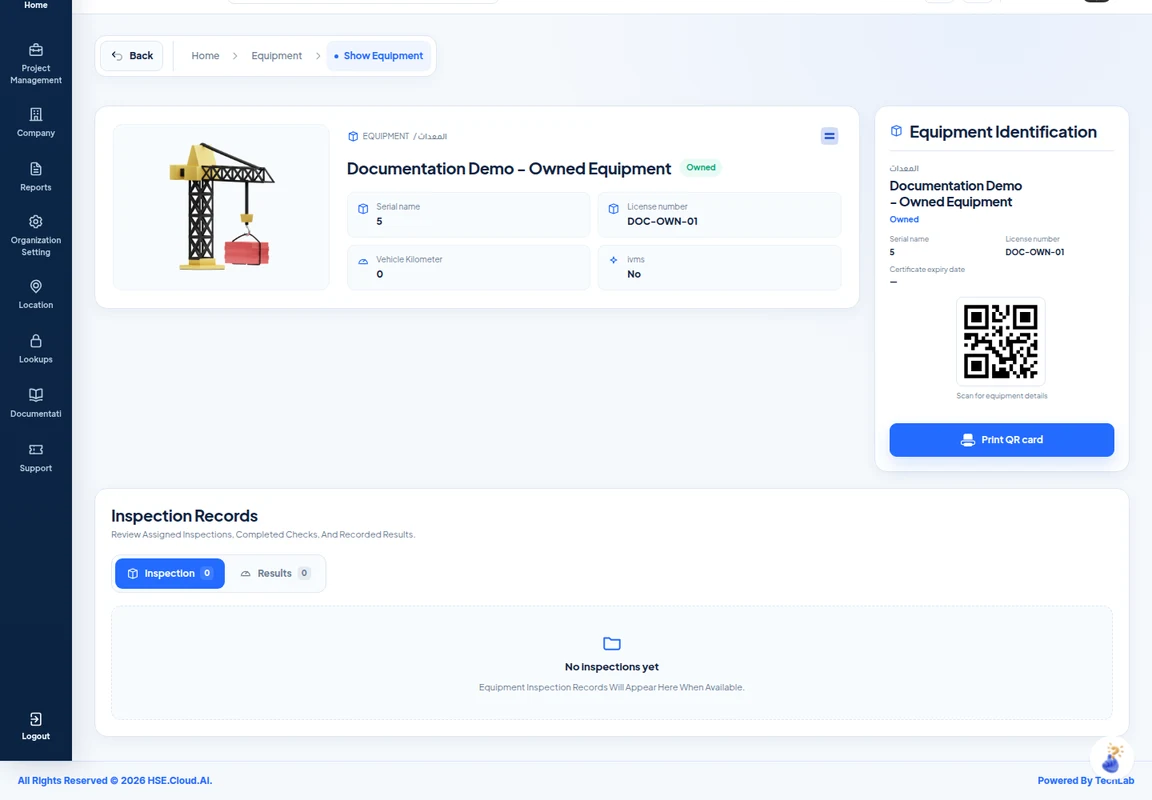
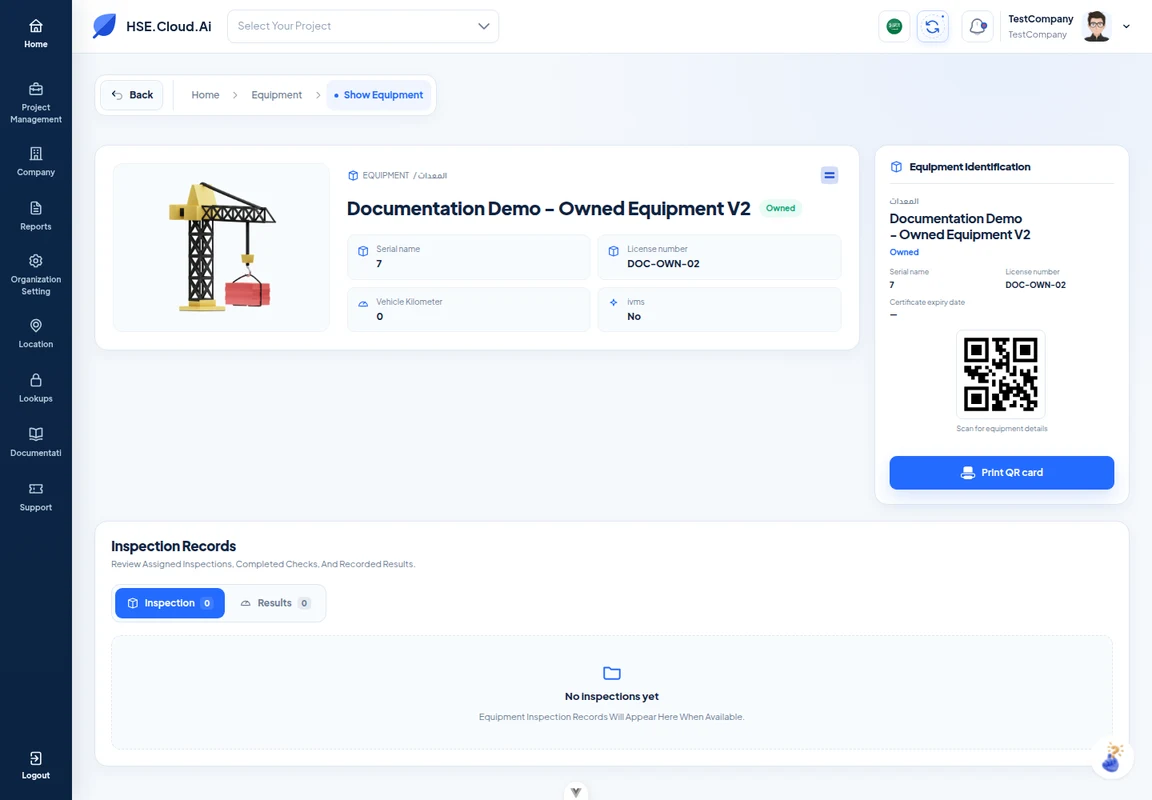
update select

diff --git a/src/features/Documentation/content/incident.ts b/src/features/Documentation/content/incident.ts
@@ -10,8 +10,8 @@ export const incidentGuide: FeatureGuide = {
     'أنشئ تقرير حادث ووثّق بيانات الأشخاص والامتثال ثم راجع السجل المحفوظ.',
   ),
   introduction: text(
-    'Incident reporting captures an event in a specific project and zone, including its type, context, immediate response, and any affected people. The walkthrough records a labelled documentation scenario with no injuries or fatalities. Select additional sections only when they apply to the incident being reported.',
-    'يوثق تقرير الحادث واقعة في مشروع ومنطقة محددين بما يشمل النوع والسياق والاستجابة الفورية والأشخاص المتأثرين. يسجل الشرح سيناريو توضيحياً مسمى دون إصابات أو وفيات. فعّل الأقسام الإضافية فقط عند انطباقها على الحادث المبلغ عنه.',
+    'Incident reporting captures an event in a specific project and zone, including its type, context, immediate response, and any affected people. The walkthrough opens witnesses, injuries, and fatalities in a clearly labelled documentation scenario. It uses demo profiles for the witness, injured person, and fatality; the fatality profile was created specifically for this recording. In real reports, include only sections that apply to the event.',
+    'يوثق تقرير الحادث واقعة في مشروع ومنطقة محددين بما يشمل النوع والسياق والاستجابة الفورية والأشخاص المتأثرين. يفتح الشرح أقسام الشهود والإصابات والوفيات في سيناريو توضيحي مسمى بوضوح، ويستخدم ملفات تجريبية للشاهد والمصاب والمتوفى؛ تم إنشاء ملف المتوفى خصيصاً لهذا التسجيل. في التقارير الفعلية فعّل الأقسام المنطبقة على الواقعة فقط.',
   ),
   startRoute: '/organization/equipment-mangement/incedant?isAll=1',
   actionLabel: text('Open Incidents', 'افتح الحوادث'),
@@ -20,8 +20,8 @@ export const incidentGuide: FeatureGuide = {
       id: 'incident',
       title: text('Create an incident', 'إضافة حادث'),
       description: text(
-        'Select the project and zone, complete the incident details and immediate response, review the people sections, submit, and open the saved report.',
-        'اختر المشروع والمنطقة وأكمل بيانات الحادث والاستجابة الفورية وراجع أقسام الأشخاص ثم أرسل وافتح التقرير المحفوظ.',
+        'Choose the project and zone, record the incident and immediate response, then add a witness statement, an injury with body location, and a staff fatality. Submit and review all three sections in the saved report.',
+        'اختر المشروع والمنطقة وسجّل الحادث والاستجابة الفورية، ثم أضف شهادة شاهد وإصابة مع موضعها ووفاة لموظف. أرسل التقرير وراجع الأقسام الثلاثة بعد الحفظ.',
       ),
       gif: '/documentation/incident/incident.gif',
       poster: '/documentation/incident/incident-poster.webp',
@@ -109,18 +109,22 @@ export const incidentGuide: FeatureGuide = {
           'للشهود اختر نعم عند وجود من أدلى بشهادة. أضف كل شاهد باختيار موظف أو باستخدام إدخال الاسم اليدوي المتاح ثم سجّل أقواله.',
         ),
         text(
-          'For injuries, choose Yes only when an injury occurred. Complete each person and the applicable injury details, categories, supporting images, locations, and PPE information.',
-          'للإصابات اختر نعم فقط عند حدوث إصابة، وأكمل بيانات كل شخص والتفاصيل والفئات والصور والمواضع ومعلومات معدات الحماية المنطبقة.',
+          'For injuries, choose Yes only when an injury occurred. Choose Staff Injured to select an employee, or Not Staff Injured to enter a name. Select Type and Nature of Injury, select affected body regions using the front/back body map or its region list, describe the injury, and complete PPE and evidence fields when applicable.',
+          'للإصابات اختر نعم فقط عند حدوث إصابة، اختر مصاب من الموظفين لاختيار موظف أو مصاب من خارج الموظفين لإدخال الاسم. حدد نوع وطبيعة الإصابة ومواضعها من خريطة الجسم الأمامية أو الخلفية أو قائمة المناطق، ثم صف الإصابة وأكمل معلومات معدات الحماية والأدلة المنطبقة.',
         ),
         text(
-          'For fatalities, choose Yes only when applicable and enter the affected person and available details. Keep No for sections that do not apply, as shown in this demonstration.',
-          'للوفيات اختر نعم فقط عند انطباقها وأدخل الشخص والتفاصيل المتاحة. اترك لا للأقسام غير المنطبقة كما في هذا المثال.',
+          'For fatalities, choose Yes only when applicable. Choose Staff Deceased and select the employee, or Not Staff Deceased and enter an external person’s name. Describe the circumstances and attach authorized evidence if needed. The recording selects a dedicated demo employee, not a real employee.',
+          'للوفيات اختر نعم فقط عند انطباقها. اختر متوفى من الموظفين وحدد الموظف أو متوفى من خارج الموظفين وأدخل اسم الشخص الخارجي. صف الظروف وأرفق الأدلة المصرح بها عند الحاجة. يختار التسجيل موظفاً تجريبياً مخصصاً وليس موظفاً حقيقياً.',
         ),
         text(
           'Remove unused rows. An added witness, injury, or fatality row needs an identified person before submission.',
           'احذف الصفوف غير المستخدمة. يحتاج كل صف شاهد أو إصابة أو وفاة مضاف إلى تحديد الشخص قبل الإرسال.',
         ),
       ],
+      note: text(
+        'Saving a fatality for a selected staff member hides that employee from active employee selectors. Their administrative employee profile and the saved incident history are retained. Verify the person before submitting. A manually entered non-staff name is not an existing employee account.',
+        'عند حفظ وفاة لموظف محدد يُخفى من قوائم اختيار الموظفين النشطين، مع الاحتفاظ بملفه الإداري وسجله داخل الحادث. تحقق من الشخص قبل الإرسال. الاسم المدخل يدوياً لشخص من خارج الموظفين ليس حساب موظف موجوداً.',
+      ),
     },
     {
       id: 'incident-save',
@@ -169,6 +173,16 @@ export const incidentGuide: FeatureGuide = {
     },
   ],
   questions: [
+    {
+      question: text(
+        'What happens to an employee added under fatalities?',
+        'ماذا يحدث للموظف الذي تتم إضافته ضمن الوفيات؟',
+      ),
+      answer: text(
+        'When the incident is saved with a staff fatality, that employee is hidden from active employee selectors. The administrative employee list can still display the profile, and the incident retains their details as history. Check the selected person carefully before submission.',
+        'عند حفظ الحادث مع وفاة لموظف يُخفى من قوائم اختيار الموظفين النشطين. قد تستمر قائمة الموظفين الإدارية في عرض ملفه وتبقى تفاصيله داخل سجل الحادث. راجع الشخص المحدد بعناية قبل الإرسال.',
+      ),
+    },
     {
       question: text('Why is the incident date rejected?', 'لماذا يُرفض تاريخ الحادث؟'),
       answer: text(

diff --git a/src/shared/FormInputs/UpdatedCustomInputSelect.vue b/src/shared/FormInputs/UpdatedCustomInputSelect.vue
@@ -138,11 +138,9 @@ const mergedOptions = computed<TitleInterface[]>(() => {
         ? props.options
         : dynamicOptions.value
 
-  const selectedOptions = Array.isArray(props.modelValue)
-    ? props.modelValue
-    : props.modelValue
-      ? [props.modelValue]
-      : []
+  const selectedOptions = (
+    Array.isArray(props.modelValue) ? props.modelValue : props.modelValue ? [props.modelValue] : []
+  ).filter(hasOptionLabel)
 
   const optionKeys = new Set<string>()
   const selectedOptionKeys = new Set(selectedOptions.map(getOptionKey).filter(Boolean))
@@ -152,19 +150,21 @@ const mergedOptions = computed<TitleInterface[]>(() => {
    * A filtered endpoint may intentionally omit already-assigned records.
    * Keep the current value in the options so PrimeVue can still render its label.
    */
-  return [...props.prependOptions, ...availableOptions, ...selectedOptions].filter((option) => {
-    const key = getOptionKey(option)
+  return [...props.prependOptions, ...availableOptions, ...selectedOptions]
+    .filter(hasOptionLabel)
+    .filter((option) => {
+      const key = getOptionKey(option)
 
-    if (!key) return true
+      if (!key) return true
 
-    if (excludedOptionKeys.has(key) && !selectedOptionKeys.has(key)) return false
+      if (excludedOptionKeys.has(key) && !selectedOptionKeys.has(key)) return false
 
-    if (optionKeys.has(key)) return false
+      if (optionKeys.has(key)) return false
 
-    optionKeys.add(key)
+      optionKeys.add(key)
 
-    return true
-  })
+      return true
+    })
 })
 
 /*
@@ -337,6 +337,10 @@ function ensureSingle(value: unknown): TitleInterface | null {
   return null
 }
 
+function hasOptionLabel(option: TitleInterface | null | undefined): option is TitleInterface {
+  return getSelectOptionLabel(option).trim().length > 0
+}
+
 function getOptionKey(option: TitleInterface): string {
   const item = option as TitleInterface & {
     id?: string | number
@@ -453,11 +457,12 @@ function updateControllerState(): void {
 }
 
 function handleAutoFill(options: TitleInterface[]): void {
-  if (!props.autoFill || options.length !== 1) {
+  const selectableOptions = options.filter(hasOptionLabel)
+  if (!props.autoFill || selectableOptions.length !== 1) {
     return
   }
 
-  const option = options[0]
+  const option = selectableOptions[0]
 
   if (!option) {
     return

diff --git a/scripts/fixtures/select-options.html b/scripts/fixtures/select-options.html
@@ -1,0 +1,56 @@
+<!doctype html>
+<html lang="en">
+  <head>
+    <meta charset="utf-8" />
+  </head>
+  <body>
+    <div id="app" style="width: 320px; margin: 32px"></div>
+    <script type="module">
+      import { createApp, h, reactive } from 'vue'
+      import { createPinia } from 'pinia'
+      import { createI18n } from 'vue-i18n'
+      import PrimeVue from 'primevue/config'
+      import UpdatedCustomInputSelect from '/src/shared/FormInputs/UpdatedCustomInputSelect.vue'
+      import TitleInterface from '/src/base/Data/Models/title_interface'
+
+      const state = reactive({
+        id: 'choice',
+        label: 'Choice',
+        reload: false,
+        type: 1,
+        modelValue: new TitleInterface({ id: 0, title: '' }),
+        options: [
+          { id: 1, title: 'First' },
+          { id: 2, title: 'Second', parent: { title: 'Department' } },
+        ],
+        prependOptions: [],
+        excludedOptionIds: [],
+        autoFill: false,
+      })
+      window.selectState = state
+      window.setFetchedOptions = (options) => {
+        state.options = undefined
+        state.autoFill = true
+        state.params = {}
+        state.controller = {
+          fetch: async () => options,
+          isDataSuccess: () => true,
+          isDataFailed: () => false,
+        }
+      }
+      createApp({
+        render: () =>
+          h(UpdatedCustomInputSelect, {
+            ...state,
+            'onUpdate:modelValue': (value) => {
+              state.modelValue = value
+            },
+          }),
+      })
+        .use(createPinia())
+        .use(PrimeVue)
+        .use(createI18n({ legacy: false, locale: 'en', messages: { en: { Choice: 'Choice' } } }))
+        .mount('#app')
+    </script>
+  </body>
+</html>

diff --git a/src/features/Documentation/README.md b/src/features/Documentation/README.md
@@ -27,7 +27,7 @@ Guides now live in `content/`, with their shared types in `types.ts` and registr
 
 Each guide has a `recordings` array. Equipment has Owned and Rented recordings; the viewer switches the poster and description and stops playback whenever another recording or guide is selected. Each GIF is requested only after Play is selected.
 
-Additional recordings were made on 2026-10-26 using actual form submissions in the supplied test company account:
+Original recordings were made on 2026-10-26 using actual form submissions in the supplied test company account. Equipment and incident recordings were replaced on 2026-10-27 as described below:
 
 | Cycle            | Created record                            | Result                                                                                                                                               |
 | ---------------- | ----------------------------------------- | ---------------------------------------------------------------------------------------------------------------------------------------------------- |
@@ -48,3 +48,17 @@ python3 scripts/build-documentation-gif.py /path/to/recording public/documentati
 ```
 
 Input is `frames.json` with `{ "file": "frame-00000.png", "duration": 250 }` entries and a sibling `frames/` directory. `--start-index` trims navigation from the preceding feature; idle duplicates are shortened. The script also writes a WebP poster using the final recorded frame. It does not log in, submit forms, or synthesize screens. The browser verification fixtures intercept remote API requests, including writes.
+
+## Equipment and incident re-recording — 2026-10-27
+
+The current owned/rented equipment and incident GIFs were re-recorded using the current local checkout at `http://127.0.0.1:5173`, authenticated against the real production API. Equipment application code, styling, and guide content were preserved. The existing GIF and poster paths were replaced.
+
+| Current recording | Created record                               | Verified result                                                                                                                                                     |
+| ----------------- | -------------------------------------------- | ------------------------------------------------------------------------------------------------------------------------------------------------------------------- |
+| Owned equipment   | 87, Documentation Demo - Owned Equipment v2  | Saved, displayed in the registry, opened in details; rental dates hidden                                                                                            |
+| Rented equipment  | 88, Documentation Demo - Rented Equipment v2 | Saved with contractor and 2 months from 2026-11-01 to 2027-01-01                                                                                                    |
+| Incident          | 36                                           | Test Project; one staff witness, one injury with left forearm selected and Safety Gloves / Good, and one staff fatality; saved and changed to Closed, then reloaded |
+
+Employee 67 (Documentation Demo Employee, an existing demo profile) was used for the witness and injury. A separate regular employee with dashboard access disabled was created specifically for the fatality: 70, Documentation Fatality Demo - 2026-10-27. The scenario and all notes explicitly state that no real injury or fatality occurred.
+
+The fatality employee was present in the employee list before submission. After saving the incident, fresh active employee selectors excluded employee 70, while the administrative employee list still returned the profile. The incident retained all three people sections and the fatality name. The GIF shows all three expanded form sections, the body map front/back views, saved people records, closure, the employee dropdown excluding the fatality profile, and a return to the saved incident. The bilingual guide distinguishes hiding from active selectors from deleting the administrative profile or incident history.
